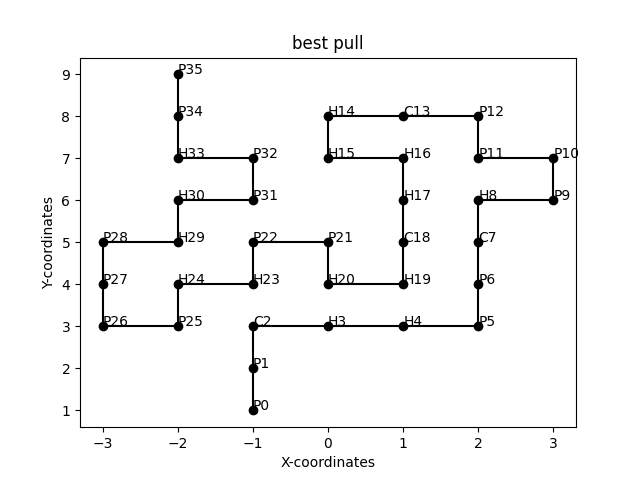
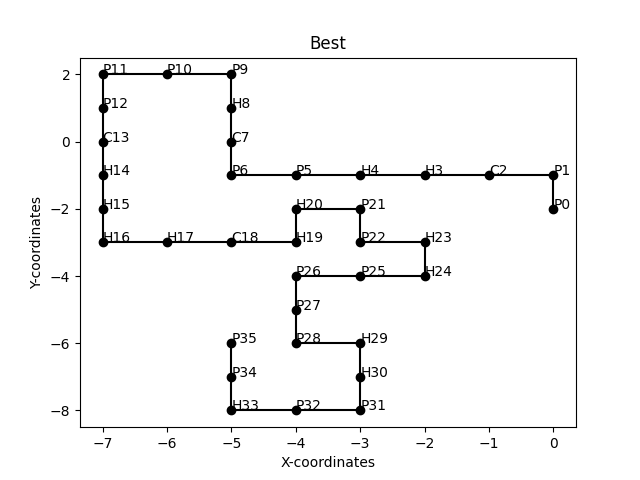
simulated annealing + pull is done

diff --git a/code/algorithms/hill_climber.py b/code/algorithms/hill_climber.py
@@ -1,15 +1,15 @@
 from .random import Random
 from code.classes.protein import Protein, Temp_Protein
 from random import choice, getrandbits, randint
-from .depth_first import DepthFirst
 import copy
 
 class HillClimber(Random):
     # TODO
     # add docstring
-    def __init__(self, protein):
+    def __init__(self, protein, runs):
         super().__init__()
         self.best = self.get_start(protein)
+        self.iterations = runs
 
 
     def get_start(self, protein):
@@ -20,13 +20,13 @@ class HillClimber(Random):
         return protein
     
 
-    def hike(self, iterations, mutations):
+    def hike(self, mutations):
         '''
         Runs the hill climber algorithm.
         '''
         # TODO
         # maybe add a few comments
-        for i in range(iterations):
+        for i in range(self.iterations):
             new = copy.deepcopy(self.best)
 
             for j in range(mutations):
@@ -38,14 +38,18 @@ class HillClimber(Random):
             if new.score < self.best.score:
                 del self.best
                 self.best = new
-            elif new.score == self.best.score:
-                if getrandbits(1):
-                    del self.best
-                    self.best = new
-                else:
-                    del new
+            elif self.accept(new):
+                del self.best
+                self.best = new
             else:
                 del new 
+
+    
+    def accept(self, new):
+        print("wrong accept")
+        if new.score == self.best.score and getrandbits(1):
+            return True
+        return False
     
 
     def mutate(self, protein):
@@ -173,123 +177,20 @@ class HillClimber(Random):
         return [self.best.score, self.best.positions]
 
 
-class HillClimber_Cut(HillClimber):
-    # TODO 
-    # add a docstring
-
-    def hike(self, iterations):
-        '''
-        Runs the alternative hill climber. 
-        '''
-        for i in range(iterations):
-            new = copy.deepcopy(self.best)
-
-            self.mutate(new)
-
-            new.set_stability()
-            self.add_solution(new)
-
-            if new.score < self.best.score:
-                del self.best
-                self.best = new
-            elif new.score == self.best.score:
-                if getrandbits(1):
-                    del self.best
-                    self.best = new
-                else:
-                    del new
-            else:
-                del new 
-
-    def mutate(self, protein):
-        '''
-        Makes a single mutation of mutations length. 
-        '''
-
-        # TODO - below comment is een beetje vaag.
-        # Get amino acids to rearrange
-        while True:
-            temp_protein = self.get_aminoacids(protein)
-            end_cor = self.get_end_coordinates(protein, temp_protein)
-            depth_first = DepthFirst_Climber(temp_protein)
-            depth_first.run()
-            new_foldings = self.pick_solution(depth_first, end_cor)
-
-            if len(new_foldings) > 0:
-                break
-            else:
-                # TODO: Delete everything, before doing it all again
-                # TODO: save the failed length etc.
-                pass
-            
-    
-    def get_aminoacids(self, protein):
-
-        # TODO - reword the docstring.
-        '''
-        Returns a sub-string of amino acids from the protein a temporary protein.
-        '''
-        # Get a random chain length 
-        protein_length = len(protein.aminoacids)
-        min_length = 3
-        max_length = int(protein_length / 4)
-        if max_length < min_length:
-            max_length = min_length
-        chain_length = randin(min_length, max_length)
-
-        last_option = protein_length - chain_length
-        start = randint(0, last_option)
-        aminoacids = protein.aminoacids[start:start + chain_length]
-        
-        return Temp_Protein(aminoacids)
-        
-
-    def get_end_coordinates(self, protein, temp_protein):
-        '''
-        Calculates and returns the coordinates the last amino acid needs when the start is at (0,0).
-        '''
-        sorted_acids = protein.get_sorted_positions()
-        start_index = temp_protein.aminoacids[0].index
-        end_index = temp_protein.aminoacids[-1].index
-        start_cor = sorted_acids[start_index][0]
-        end_cor = sorted_acids[end_index][0]
-
-        delta_x = end_cor[0] - start_cor[0]
-        delta_y = end_cor[1] - start_cor[1]
-
-        return (delta_x, delta_y)
-
-
-    def pick_solution(self, depth_first, end_cor):
-        '''
-        Checks all solutions for a valid folding.
-        '''
-        solutions = depth_first.solutions
-        solutions.sort(key=lambda x:x[0], reverse=True)
-
-        for solution in solutions:
-            positions = solution[1].items()
-            positions.sort(key=lambda x:x[1].index)
-            
-            if positions[-1][0] == end_cor:
-                # TODO: check if acids are directly edited. If yes, you only have to change the coordinates
-                return solutions[1].values()
-        
-        return []
-
-
 class HillClimber_Pull(HillClimber):
     # TODO - add docstring
 
-    def __init__(self, protein):
-        super().__init__(protein)
+    def __init__(self, protein, runs):
+        super().__init__(protein, runs)
         self.success = 0
 
-    def hike(self, iterations):
+
+    def hike(self):
         '''
         Runs the hill climber algorithm.
         '''
-        for i in range(iterations):
+
+        for i in range(self.iterations):
             new = copy.deepcopy(self.best)
             success = self.mutate(new)
 
@@ -301,16 +202,13 @@ class HillClimber_Pull(HillClimber):
                 if new.score < self.best.score:
                     del self.best
                     self.best = new
-                elif new.score == self.best.score:
-                    if getrandbits(1):
-                        del self.best
-                        self.best = new
-                    else:
-                        del new
+                elif self.accept(new):
+                    del self.best
+                    self.best = new
                 else:
                     del new 
 
-        print(f"{self.success} out of {iterations} mutations were successful")
+        print(f"{self.success} out of {self.iterations} mutations were successful")
 
 
     def mutate(self, protein):
@@ -327,7 +225,7 @@ class HillClimber_Pull(HillClimber):
         surrounding_coordinates = protein.get_surrounding_coordinates(i_plus[0][0], i_plus[0][1])
         free_coordinates = self.get_free_coordinates(protein, surrounding_coordinates)
 
-        if free_coordinates == 0:
+        if len(free_coordinates) == 0:
             return False
 
         # If i is the first amino acid, pull anywhere

diff --git a/main.py b/main.py
@@ -16,7 +16,7 @@ from code.algorithms.greedy import Greedy
 from code.algorithms.hill_climber import HillClimber, HillClimber_Pull
 from code.visualisation.output import writecsv
 from code.visualisation.visualize import visualize, hist
-from code.algorithms.simulated_annealing import Simulated_Annealing
+from code.algorithms.simulated_annealing import Simulated_Annealing, Simulated_Annealing_Pull
 from code.algorithms.depth_first import DepthFirst
 import time
 
@@ -29,8 +29,8 @@ if __name__ == "__main__":
     protein = Protein(source, protein_id)
 
     while True:
-        algor = input("Which algorithm do you want to run?\n r = random\n g = greedy\n h = hill climber\n p = hill climber (pull version)\n s = simulated annealing\n d = depth first\n")
-        if algor in ['r', 'g', 'h', 'p', 's', 'd']:
+        algor = input("Which algorithm do you want to run?\nr = random\ng = greedy\nh = hill climber\np = hill climber (pull version)\ns = simulated annealing\nsp = simulated annealing (using pull hill climber)\nd = depth first\n")
+        if algor in ['r', 'g', 'h', 'p', 's', 'sp', 'd']:
             break
         else:
             print("Please select a valid algorithm.")
@@ -71,18 +71,18 @@ if __name__ == "__main__":
             except ValueError:
                 print("Please give a positive integer.")
 
-        art = HillClimber(protein)
+        art = HillClimber(protein, runs)
         start_time = time.time()
-        art.hike(runs, mutations)
+        art.hike(mutations)
         print("Algoritm took %s seconds to run (without visualisation)" % (time.time() - start_time))
         best = art.get_best()
     elif algor == 'p':        
-        art = HillClimber_Pull(protein)
+        art = HillClimber_Pull(protein, runs)
         start_time = time.time()
-        art.hike(runs)
+        art.hike()
         print("Algoritm took %s seconds to run (without visualisation)" % (time.time() - start_time))
         best = art.get_best()
-    elif algor == 's':
+    elif algor == 's' or algor == 'sp':
         while True:
             temp = input("What initial temperature do you want?\n")
             try:
@@ -90,18 +90,24 @@ if __name__ == "__main__":
                 break
             except ValueError:
                 print("Please give a positive integer.")
+    
+        if algor == 's':
 
-        while True:
-            mutations = input("How many mutations do you want to make per run?\n")
-            try:
-                mutations = int(mutations)
-                break
-            except ValueError:
-                print("Please give a positive integer.")
+            while True:
+                mutations = input("How many mutations do you want to make per run?\n")
+                try:
+                    mutations = int(mutations)
+                    break
+                except ValueError:
+                    print("Please give a positive integer.")
 
-        art = Simulated_Annealing(protein, temp)
-        start_time = time.time()
-        art.hike(runs, mutations)
+            art = Simulated_Annealing(protein, temp, runs)
+            start_time = time.time()
+            art.hike(mutations)
+        else: 
+            art = Simulated_Annealing_Pull(protein, temp, runs)
+            start_time = time.time()
+            art.hike()
         print("Algoritm took %s seconds to run (without visualisation)" % (time.time() - start_time))
         best = art.get_best()
         

diff --git a/code/algorithms/simulated_annealing.py b/code/algorithms/simulated_annealing.py
@@ -1,4 +1,4 @@
-from .hill_climber import HillClimber
+from .hill_climber import HillClimber, HillClimber_Pull
 import random
 import math
 import copy
@@ -7,40 +7,12 @@ class Simulated_Annealing(HillClimber):
     # TODO - add docstring
     '''
     '''
-    def __init__(self, protein, initial_temp):
-        super().__init__(protein)
+    def __init__(self, protein, initial_temp, runs):
         self.initial_temp = initial_temp
-        self.alpha = None
+        self.alpha = initial_temp / runs
         self.current_temp = initial_temp
+        super().__init__(protein, runs)
 
-
-    def hike(self, iterations, mutations):
-        '''
-        Runs the simulated annealing algorithm.
-        '''
-        self.alpha = self.initial_temp / iterations
-
-        for i in range(iterations):
-            new = copy.deepcopy(self.best)
-
-            for j in range(mutations):
-                self.mutate(new)
-
-            new.set_stability()
-            self.add_solution(new)
-
-            if new.score < self.best.score:
-                del self.best
-                self.best = new
-            else:
-                if self.accept(new):
-                    del self.best
-                    self.best = new
-                else:
-                    del new
-            
-            self.update_temp()
-    
 
     def accept(self, new):
         # TODO - add docstring
@@ -58,3 +30,15 @@ class Simulated_Annealing(HillClimber):
         '''
         '''
         self.current_temp -= self.alpha
+
+    
+    def add_solution(self, protein):
+        '''
+        Add a solution to the list of solutions.
+        '''
+        score = protein.score
+        self.solutions.append(score)
+        self.update_temp()
+
+class Simulated_Annealing_Pull(Simulated_Annealing, HillClimber_Pull):
+    pass

diff --git a/code/classes/protein.py b/code/classes/protein.py
@@ -127,6 +127,7 @@ class Protein():
 
 
     def get_surrounding_coordinates(self, x, y):
+        # TODO: Change so you can just insert a tuple 
         return [(x - 1, y), (x + 1, y), (x, y - 1), (x, y + 1)]
 
 
